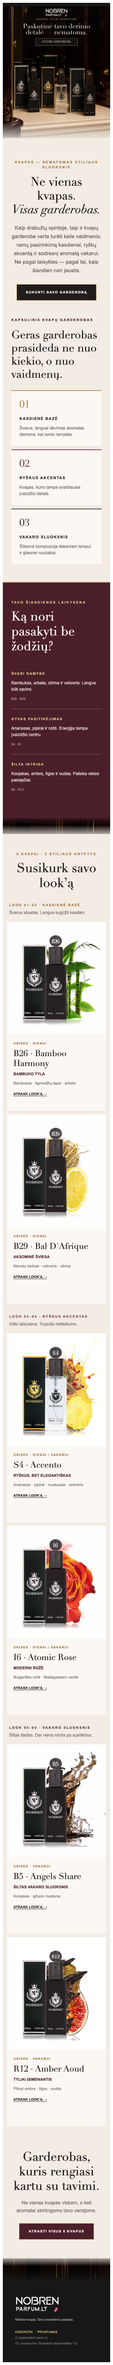
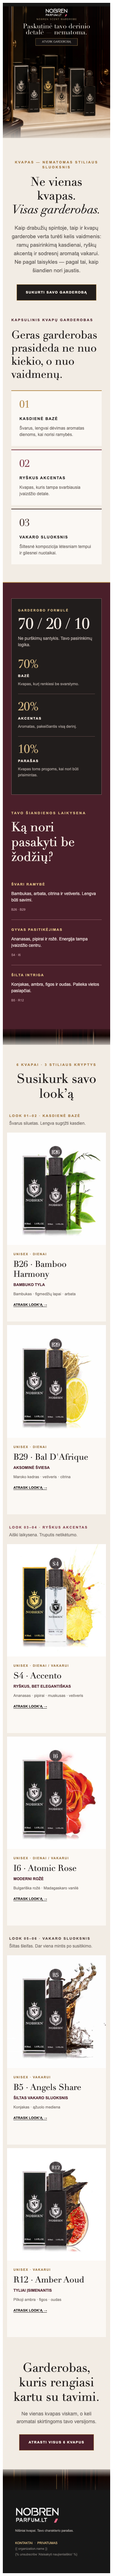
Add 70-20-10 wardrobe formula block

diff --git a/campaigns/2026-08-kvapo-garderobas/newsletter-klaviyo-block.html b/campaigns/2026-08-kvapo-garderobas/newsletter-klaviyo-block.html
@@ -13,6 +13,9 @@
     .nb-stack, .nb-stack td { display: block !important; width: 100% !important; box-sizing: border-box !important; }
     .nb-stack-gap { height: 10px !important; line-height: 10px !important; }
     .nb-role { padding: 23px !important; }
+    .nb-formula { padding: 27px 18px !important; }
+    .nb-formula-item { padding: 19px 0 !important; border-left: 0 !important; border-top: 1px solid #5e4545 !important; }
+    .nb-formula-first { border-top: 0 !important; padding-top: 4px !important; }
     .nb-intent { padding: 21px 0 !important; border-left: 0 !important; border-top: 1px solid #8b5962 !important; }
     .nb-intent-first { border-top: 0 !important; }
     .nb-products { padding-left: 12px !important; padding-right: 12px !important; }
@@ -97,7 +100,41 @@
         <tr><td bgcolor="#b68e52" height="2" style="height:2px;font-size:0;line-height:0;background:#b68e52;">&nbsp;</td></tr>
 
         <tr>
-          <td class="nb-pad" bgcolor="#4a1f2a" style="padding:49px 38px 44px;background:#4a1f2a;">
+          <td class="nb-pad" bgcolor="#4a1f2a" style="padding:44px 38px 17px;background:#4a1f2a;">
+            <table role="presentation" width="100%" bgcolor="#211d1c" style="background:#211d1c;border:1px solid #78585a;">
+              <tr>
+                <td class="nb-formula" style="padding:31px 30px 29px;">
+                  <div class="nb-sans" style="font-size:9px;line-height:13px;letter-spacing:2.2px;color:#d8ba85;font-weight:bold;">GARDEROBO FORMULĖ</div>
+                  <div class="nb-serif" style="padding-top:8px;font-size:42px;line-height:47px;color:#f5ede5;">70 / 20 / 10</div>
+                  <div class="nb-sans" style="padding-top:8px;font-size:12px;line-height:18px;color:#bdb2ad;">Ne purškimų santykis. Tavo pasirinkimų logika.</div>
+
+                  <table role="presentation" class="nb-stack" width="100%" style="margin-top:25px;">
+                    <tr>
+                      <td class="nb-formula-item nb-formula-first" width="33.33%" valign="top" style="padding:0 18px 0 0;">
+                        <div class="nb-serif" style="font-size:32px;line-height:35px;color:#d8ba85;">70%</div>
+                        <div class="nb-sans" style="padding-top:8px;font-size:10px;line-height:14px;letter-spacing:1.5px;color:#f0e6dd;font-weight:bold;">BAZĖ</div>
+                        <div class="nb-sans" style="padding-top:7px;font-size:11px;line-height:17px;color:#aaa09b;">Kvapas, kurį renkiesi be svarstymo.</div>
+                      </td>
+                      <td class="nb-formula-item" width="33.33%" valign="top" style="padding:0 18px;border-left:1px solid #5e4545;">
+                        <div class="nb-serif" style="font-size:32px;line-height:35px;color:#d8ba85;">20%</div>
+                        <div class="nb-sans" style="padding-top:8px;font-size:10px;line-height:14px;letter-spacing:1.5px;color:#f0e6dd;font-weight:bold;">AKCENTAS</div>
+                        <div class="nb-sans" style="padding-top:7px;font-size:11px;line-height:17px;color:#aaa09b;">Aromatas, pakeičiantis visą derinį.</div>
+                      </td>
+                      <td class="nb-formula-item" width="33.33%" valign="top" style="padding:0 0 0 18px;border-left:1px solid #5e4545;">
+                        <div class="nb-serif" style="font-size:32px;line-height:35px;color:#d8ba85;">10%</div>
+                        <div class="nb-sans" style="padding-top:8px;font-size:10px;line-height:14px;letter-spacing:1.5px;color:#f0e6dd;font-weight:bold;">PARAŠAS</div>
+                        <div class="nb-sans" style="padding-top:7px;font-size:11px;line-height:17px;color:#aaa09b;">Kvapas toms progoms, kai nori būti prisimintas.</div>
+                      </td>
+                    </tr>
+                  </table>
+                </td>
+              </tr>
+            </table>
+          </td>
+        </tr>
+
+        <tr>
+          <td class="nb-pad" bgcolor="#4a1f2a" style="padding:28px 38px 44px;background:#4a1f2a;">
             <div class="nb-sans" style="font-size:10px;line-height:14px;letter-spacing:2.4px;color:#d8ba85;font-weight:bold;">TAVO ŠIANDIENOS LAIKYSENA</div>
             <div class="nb-serif" style="padding-top:12px;font-size:36px;line-height:42px;color:#f5ede5;">Ką nori pasakyti be žodžių?</div>
             <table role="presentation" class="nb-stack" width="100%" style="margin-top:28px;">

diff --git a/campaigns/2026-08-kvapo-garderobas/newsletter-klaviyo.html b/campaigns/2026-08-kvapo-garderobas/newsletter-klaviyo.html
@@ -13,6 +13,9 @@
     .nb-stack, .nb-stack td { display: block !important; width: 100% !important; box-sizing: border-box !important; }
     .nb-stack-gap { height: 10px !important; line-height: 10px !important; }
     .nb-role { padding: 23px !important; }
+    .nb-formula { padding: 27px 18px !important; }
+    .nb-formula-item { padding: 19px 0 !important; border-left: 0 !important; border-top: 1px solid #5e4545 !important; }
+    .nb-formula-first { border-top: 0 !important; padding-top: 4px !important; }
     .nb-intent { padding: 21px 0 !important; border-left: 0 !important; border-top: 1px solid #8b5962 !important; }
     .nb-intent-first { border-top: 0 !important; }
     .nb-products { padding-left: 12px !important; padding-right: 12px !important; }
@@ -97,7 +100,41 @@
         <tr><td bgcolor="#b68e52" height="2" style="height:2px;font-size:0;line-height:0;background:#b68e52;">&nbsp;</td></tr>
 
         <tr>
-          <td class="nb-pad" bgcolor="#4a1f2a" style="padding:49px 38px 44px;background:#4a1f2a;">
+          <td class="nb-pad" bgcolor="#4a1f2a" style="padding:44px 38px 17px;background:#4a1f2a;">
+            <table role="presentation" width="100%" bgcolor="#211d1c" style="background:#211d1c;border:1px solid #78585a;">
+              <tr>
+                <td class="nb-formula" style="padding:31px 30px 29px;">
+                  <div class="nb-sans" style="font-size:9px;line-height:13px;letter-spacing:2.2px;color:#d8ba85;font-weight:bold;">GARDEROBO FORMULĖ</div>
+                  <div class="nb-serif" style="padding-top:8px;font-size:42px;line-height:47px;color:#f5ede5;">70 / 20 / 10</div>
+                  <div class="nb-sans" style="padding-top:8px;font-size:12px;line-height:18px;color:#bdb2ad;">Ne purškimų santykis. Tavo pasirinkimų logika.</div>
+
+                  <table role="presentation" class="nb-stack" width="100%" style="margin-top:25px;">
+                    <tr>
+                      <td class="nb-formula-item nb-formula-first" width="33.33%" valign="top" style="padding:0 18px 0 0;">
+                        <div class="nb-serif" style="font-size:32px;line-height:35px;color:#d8ba85;">70%</div>
+                        <div class="nb-sans" style="padding-top:8px;font-size:10px;line-height:14px;letter-spacing:1.5px;color:#f0e6dd;font-weight:bold;">BAZĖ</div>
+                        <div class="nb-sans" style="padding-top:7px;font-size:11px;line-height:17px;color:#aaa09b;">Kvapas, kurį renkiesi be svarstymo.</div>
+                      </td>
+                      <td class="nb-formula-item" width="33.33%" valign="top" style="padding:0 18px;border-left:1px solid #5e4545;">
+                        <div class="nb-serif" style="font-size:32px;line-height:35px;color:#d8ba85;">20%</div>
+                        <div class="nb-sans" style="padding-top:8px;font-size:10px;line-height:14px;letter-spacing:1.5px;color:#f0e6dd;font-weight:bold;">AKCENTAS</div>
+                        <div class="nb-sans" style="padding-top:7px;font-size:11px;line-height:17px;color:#aaa09b;">Aromatas, pakeičiantis visą derinį.</div>
+                      </td>
+                      <td class="nb-formula-item" width="33.33%" valign="top" style="padding:0 0 0 18px;border-left:1px solid #5e4545;">
+                        <div class="nb-serif" style="font-size:32px;line-height:35px;color:#d8ba85;">10%</div>
+                        <div class="nb-sans" style="padding-top:8px;font-size:10px;line-height:14px;letter-spacing:1.5px;color:#f0e6dd;font-weight:bold;">PARAŠAS</div>
+                        <div class="nb-sans" style="padding-top:7px;font-size:11px;line-height:17px;color:#aaa09b;">Kvapas toms progoms, kai nori būti prisimintas.</div>
+                      </td>
+                    </tr>
+                  </table>
+                </td>
+              </tr>
+            </table>
+          </td>
+        </tr>
+
+        <tr>
+          <td class="nb-pad" bgcolor="#4a1f2a" style="padding:28px 38px 44px;background:#4a1f2a;">
             <div class="nb-sans" style="font-size:10px;line-height:14px;letter-spacing:2.4px;color:#d8ba85;font-weight:bold;">TAVO ŠIANDIENOS LAIKYSENA</div>
             <div class="nb-serif" style="padding-top:12px;font-size:36px;line-height:42px;color:#f5ede5;">Ką nori pasakyti be žodžių?</div>
             <table role="presentation" class="nb-stack" width="100%" style="margin-top:28px;">

diff --git a/campaigns/2026-08-kvapo-garderobas/newsletter.html b/campaigns/2026-08-kvapo-garderobas/newsletter.html
@@ -13,6 +13,9 @@
     .nb-stack, .nb-stack td { display: block !important; width: 100% !important; box-sizing: border-box !important; }
     .nb-stack-gap { height: 10px !important; line-height: 10px !important; }
     .nb-role { padding: 23px !important; }
+    .nb-formula { padding: 27px 18px !important; }
+    .nb-formula-item { padding: 19px 0 !important; border-left: 0 !important; border-top: 1px solid #5e4545 !important; }
+    .nb-formula-first { border-top: 0 !important; padding-top: 4px !important; }
     .nb-intent { padding: 21px 0 !important; border-left: 0 !important; border-top: 1px solid #8b5962 !important; }
     .nb-intent-first { border-top: 0 !important; }
     .nb-products { padding-left: 12px !important; padding-right: 12px !important; }
@@ -97,7 +100,41 @@
         <tr><td bgcolor="#b68e52" height="2" style="height:2px;font-size:0;line-height:0;background:#b68e52;">&nbsp;</td></tr>
 
         <tr>
-          <td class="nb-pad" bgcolor="#4a1f2a" style="padding:49px 38px 44px;background:#4a1f2a;">
+          <td class="nb-pad" bgcolor="#4a1f2a" style="padding:44px 38px 17px;background:#4a1f2a;">
+            <table role="presentation" width="100%" bgcolor="#211d1c" style="background:#211d1c;border:1px solid #78585a;">
+              <tr>
+                <td class="nb-formula" style="padding:31px 30px 29px;">
+                  <div class="nb-sans" style="font-size:9px;line-height:13px;letter-spacing:2.2px;color:#d8ba85;font-weight:bold;">GARDEROBO FORMULĖ</div>
+                  <div class="nb-serif" style="padding-top:8px;font-size:42px;line-height:47px;color:#f5ede5;">70 / 20 / 10</div>
+                  <div class="nb-sans" style="padding-top:8px;font-size:12px;line-height:18px;color:#bdb2ad;">Ne purškimų santykis. Tavo pasirinkimų logika.</div>
+
+                  <table role="presentation" class="nb-stack" width="100%" style="margin-top:25px;">
+                    <tr>
+                      <td class="nb-formula-item nb-formula-first" width="33.33%" valign="top" style="padding:0 18px 0 0;">
+                        <div class="nb-serif" style="font-size:32px;line-height:35px;color:#d8ba85;">70%</div>
+                        <div class="nb-sans" style="padding-top:8px;font-size:10px;line-height:14px;letter-spacing:1.5px;color:#f0e6dd;font-weight:bold;">BAZĖ</div>
+                        <div class="nb-sans" style="padding-top:7px;font-size:11px;line-height:17px;color:#aaa09b;">Kvapas, kurį renkiesi be svarstymo.</div>
+                      </td>
+                      <td class="nb-formula-item" width="33.33%" valign="top" style="padding:0 18px;border-left:1px solid #5e4545;">
+                        <div class="nb-serif" style="font-size:32px;line-height:35px;color:#d8ba85;">20%</div>
+                        <div class="nb-sans" style="padding-top:8px;font-size:10px;line-height:14px;letter-spacing:1.5px;color:#f0e6dd;font-weight:bold;">AKCENTAS</div>
+                        <div class="nb-sans" style="padding-top:7px;font-size:11px;line-height:17px;color:#aaa09b;">Aromatas, pakeičiantis visą derinį.</div>
+                      </td>
+                      <td class="nb-formula-item" width="33.33%" valign="top" style="padding:0 0 0 18px;border-left:1px solid #5e4545;">
+                        <div class="nb-serif" style="font-size:32px;line-height:35px;color:#d8ba85;">10%</div>
+                        <div class="nb-sans" style="padding-top:8px;font-size:10px;line-height:14px;letter-spacing:1.5px;color:#f0e6dd;font-weight:bold;">PARAŠAS</div>
+                        <div class="nb-sans" style="padding-top:7px;font-size:11px;line-height:17px;color:#aaa09b;">Kvapas toms progoms, kai nori būti prisimintas.</div>
+                      </td>
+                    </tr>
+                  </table>
+                </td>
+              </tr>
+            </table>
+          </td>
+        </tr>
+
+        <tr>
+          <td class="nb-pad" bgcolor="#4a1f2a" style="padding:28px 38px 44px;background:#4a1f2a;">
             <div class="nb-sans" style="font-size:10px;line-height:14px;letter-spacing:2.4px;color:#d8ba85;font-weight:bold;">TAVO ŠIANDIENOS LAIKYSENA</div>
             <div class="nb-serif" style="padding-top:12px;font-size:36px;line-height:42px;color:#f5ede5;">Ką nori pasakyti be žodžių?</div>
             <table role="presentation" class="nb-stack" width="100%" style="margin-top:28px;">

diff --git a/campaigns/2026-08-kvapo-garderobas/BRAND_NOTES.md b/campaigns/2026-08-kvapo-garderobas/BRAND_NOTES.md
@@ -5,6 +5,7 @@
 - Preview: **Kasdienė bazė, ryškus akcentas ir vakaro sluoksnis — 6 NoBren aromatai trims nuotaikoms.**
 - Hero: viena vientisa, AI sugeneruota aukštosios mados spintos fotosesija su B26, S4 ir I6 produktais. Tikslus logotipas ir tekstas uždėti mechaniškai.
 - Hero CTA: **ATVERK GARDEROBĄ**
+- Papildomas įtraukiantis blokas: **„70 / 20 / 10 garderobo formulė“** — bazė, akcentas ir parašas. Bloke aiškiai nurodyta, kad tai pasirinkimų logika, o ne purškimų proporcija.
 
 ## Produktai
 
